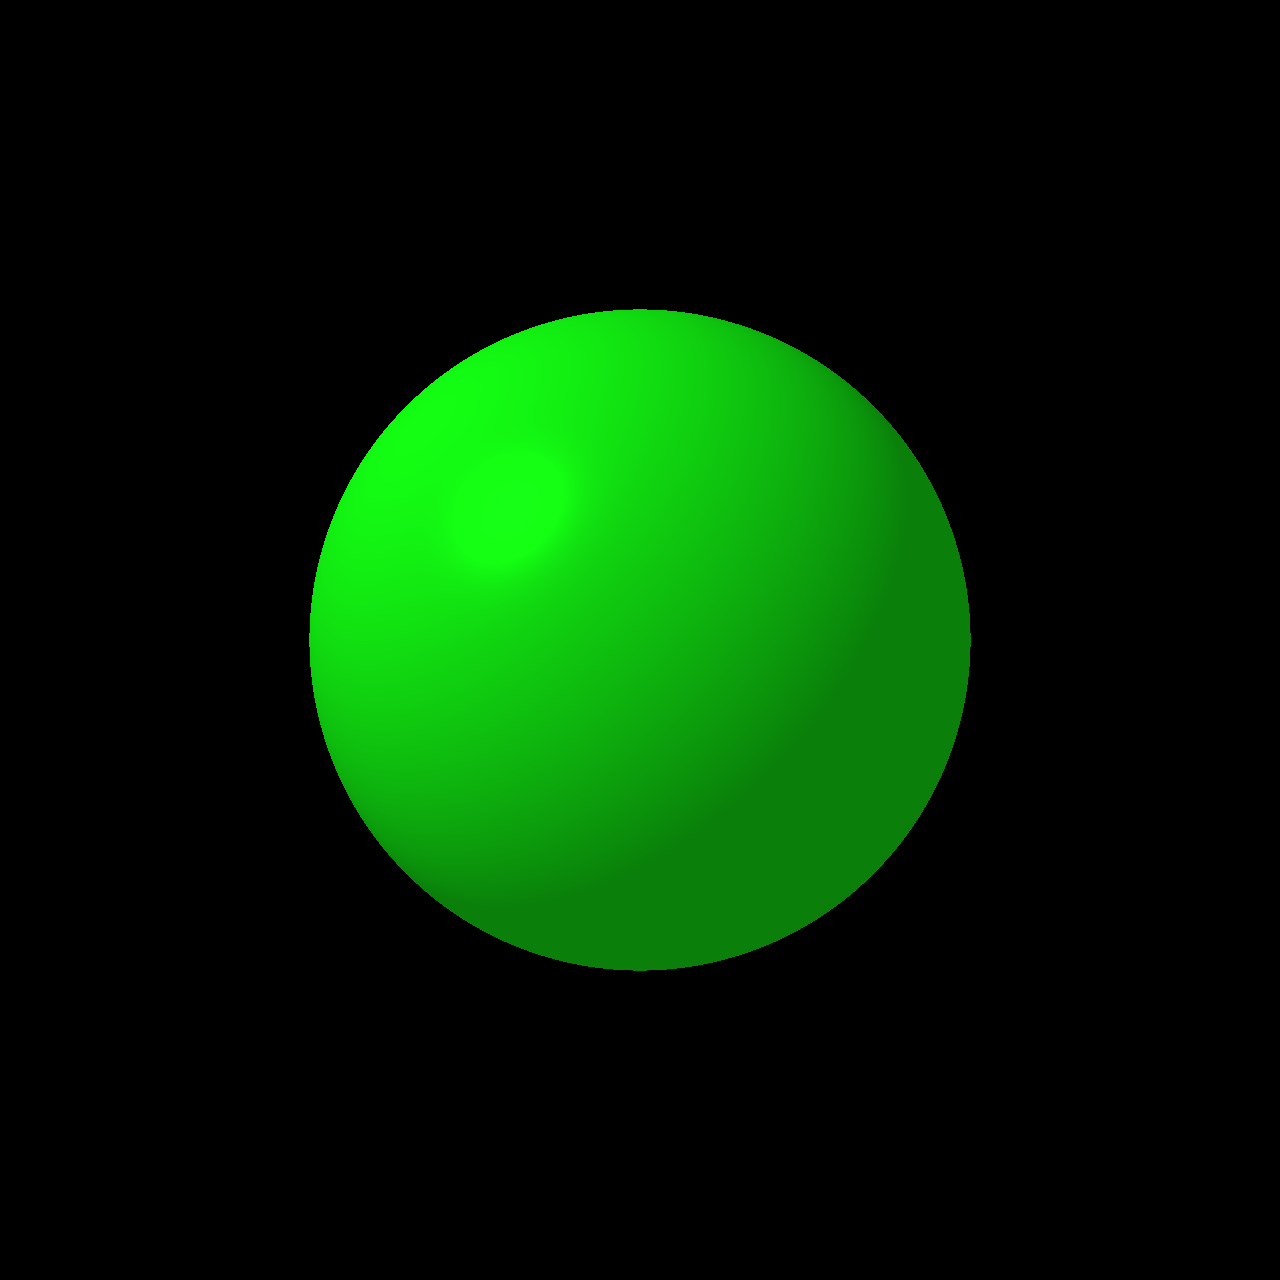
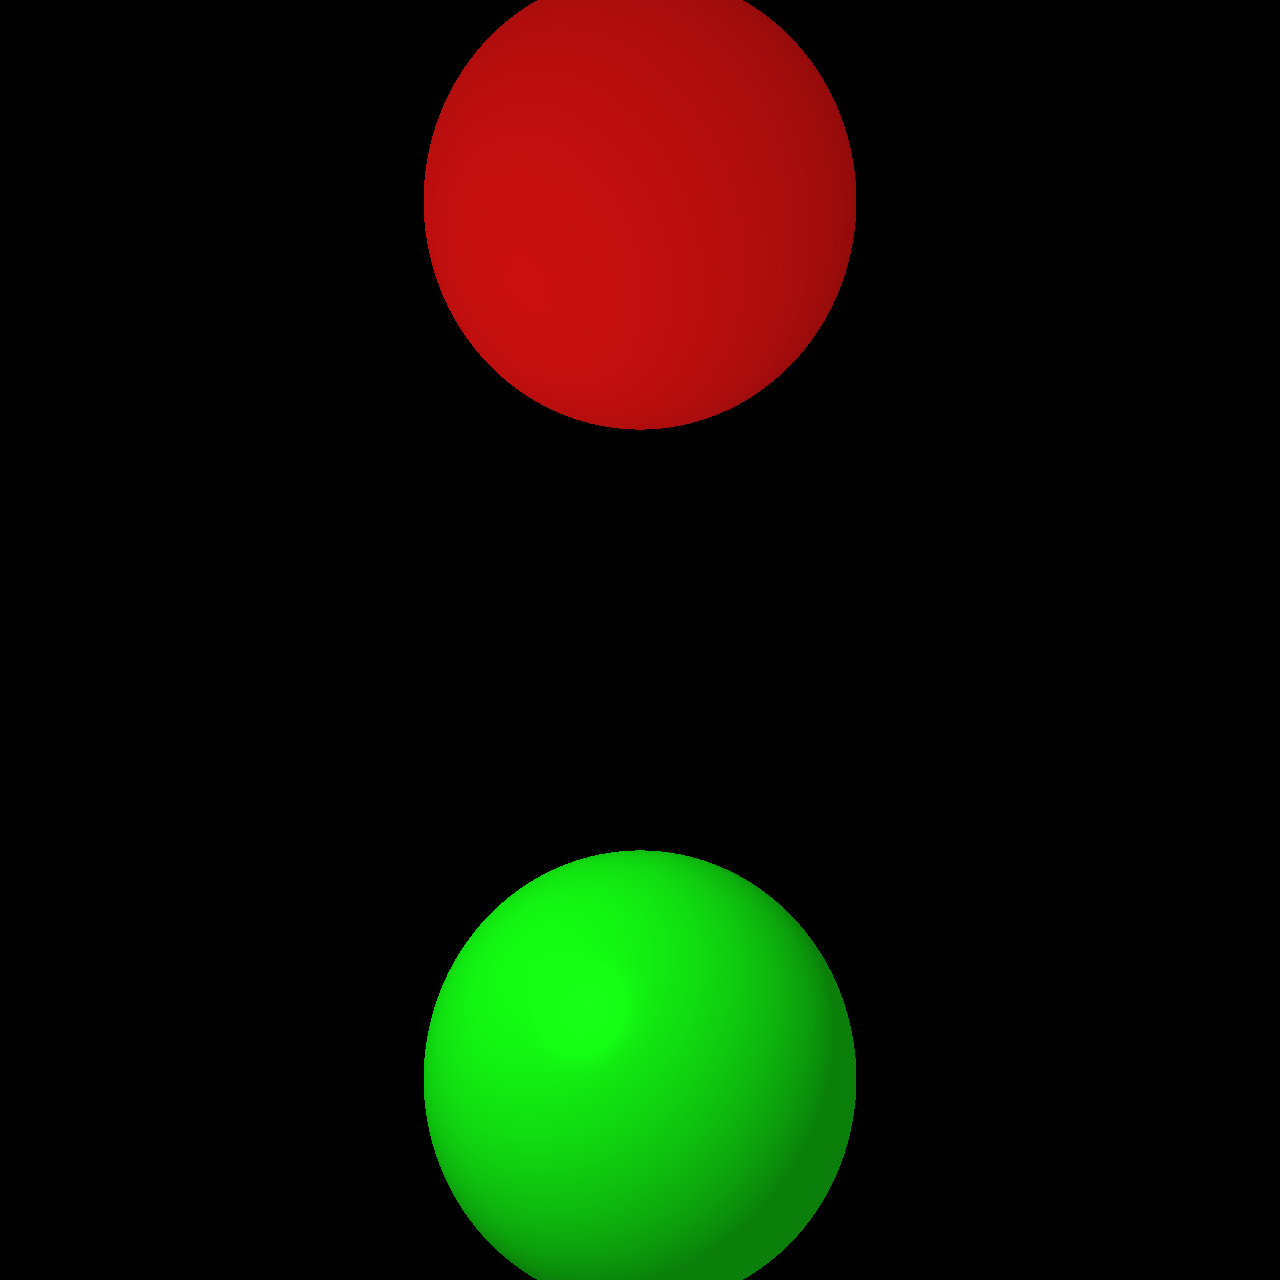
test

diff --git a/src/main.rs b/src/main.rs
@@ -2,6 +2,7 @@ use image::RgbImage;
 use ndarray::{Array3};
 use std::time::Instant;
 use std::ops::{Add, Div, Mul, Sub, Neg};
+use std::cmp;
 //use rayon::prelude::*;
 
 
@@ -151,6 +152,36 @@ impl Sphere {
     }
 }
 
+impl Copy for Sphere { }
+
+impl Clone for Sphere {
+    fn clone(&self) -> Sphere {
+        *self
+    }
+}
+
+struct Ops {
+    sdf_a: f32,
+    color_a: Vec3,
+    sdf_b: f32,
+    color_b: Vec3
+}
+
+impl Ops {
+    fn Union(&self, ray_pos: Vec3) -> (f32, Vec3) {
+        //f32::min(self.object_a.sdf(ray_pos),self.object_b.sdf(ray_pos))
+        //sdf_a = self.object_a.sdf(ray_pos)
+        //sdf_b = self.object_b.sdf(ray_pos)
+
+        if self.sdf_a >= self.sdf_b {
+            return (self.sdf_b, self.color_b)
+        } else {
+            return (self.sdf_a, self.color_a)
+        }
+    }
+} //bygga träd med dessa klasser
+
+
 fn array_to_image(arr: Array3<u8>) -> RgbImage {
     assert!(arr.is_standard_layout());
 
@@ -171,6 +202,8 @@ fn ray(
     const EPSILON: f32 = 0.0001;
     const MAX_BOUNCE_DEPTH: u8 = 5;
     const MAX_DISTANCE: f32 = 128.0;
+    
+    let background_color = Vec3::zeros();
 
     let mut ray_pos = start_pos.clone();
     let mut impact_normal = Vec3::zeros();
@@ -187,7 +220,7 @@ fn ray(
         
         //find the step length
         //for object in objects.iter() {
-        let sdf_val = objects[0].sdf(ray_pos);
+        let (sdf_val, color) = Ops::Union(&Ops{sdf_a: objects[0].sdf(ray_pos), color_a: objects[0].color, sdf_b: objects[1].sdf(ray_pos), color_b: objects[1].color}, ray_pos);
         //}
         
         //take the step
@@ -196,7 +229,7 @@ fn ray(
 
         //check if outside scene
         if Vec3::len(&ray_pos) > MAX_DISTANCE {
-            hit = true;
+            return background_color;
         }
 
         //check if hit
@@ -246,11 +279,11 @@ fn ray(
                 let s = 0.5f32* 0.0f32.max(Vec3::dot(&light_u_vector_rot,&-u_vec)).powf(20.0f32)* 0.5f32;
                 let intensity = a + d + s;
 
-                color = objects[0].color * intensity;
+                return color * intensity;
             }
         }
     }
-    return color;
+    return color * intensity
 }
 
 
@@ -279,9 +312,17 @@ fn main() {
     let mut objects = vec![];
 
     objects.push( Sphere{
-        pos: Vec3{x:2.0, y:0.0, z:0.0},
+        pos: Vec3{x:3.0, y:1.0, z:0.0},
         radius: 0.5f32,
         color: Vec3{x:20.0, y:255.0, z:20.0},
+        light_prop: Vec3{x: 1.0, y:1.0, z:1.0},
+        alpha: 20.0f32
+    });
+
+    objects.push( Sphere{
+        pos: Vec3{x:3.0, y:-1.0, z:0.0},
+        radius: 0.5f32,
+        color: Vec3{x:255.0, y:20.0, z:20.0},
         light_prop: Vec3{x: 1.0, y:1.0, z:1.0},
         alpha: 20.0f32
     });
